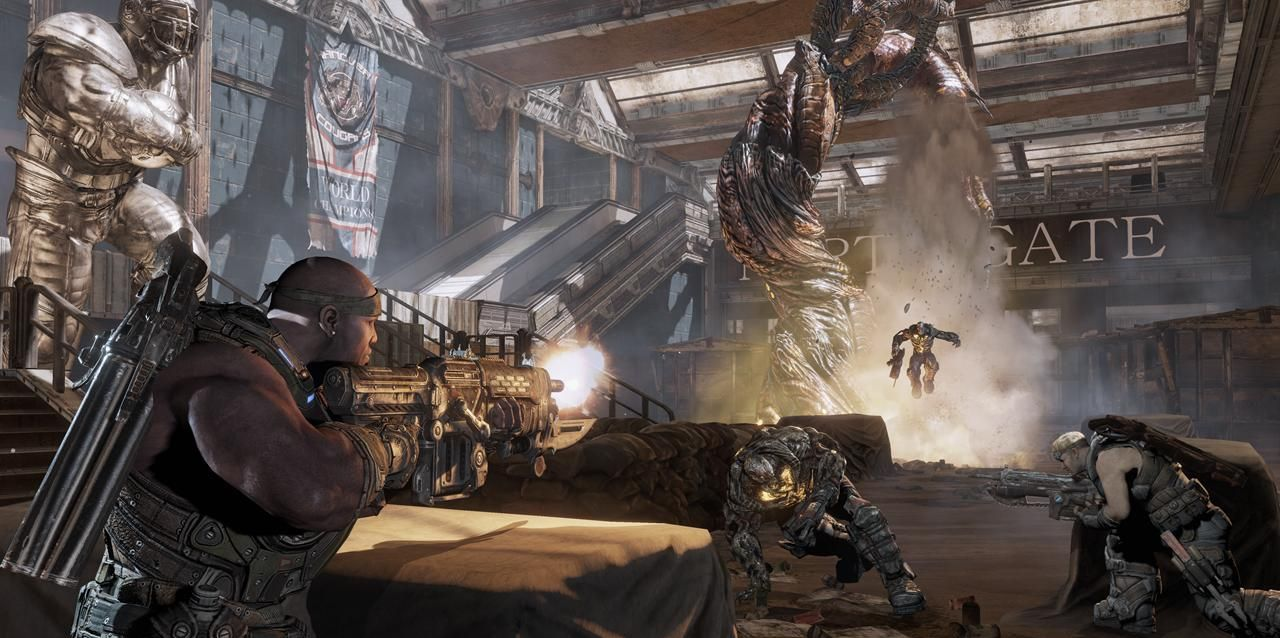
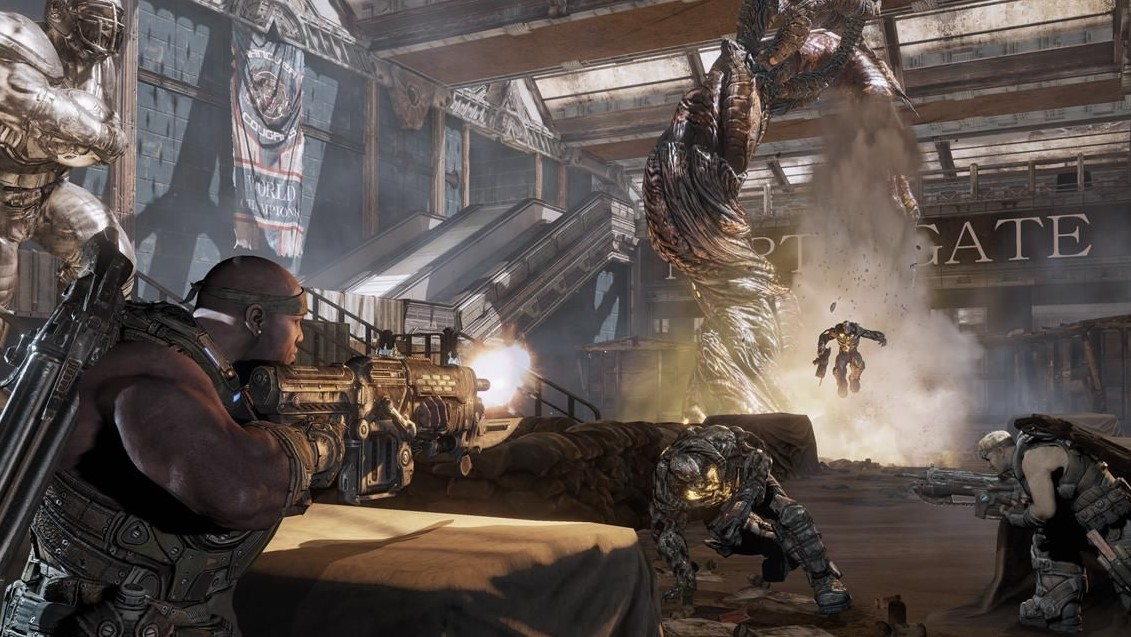
Edited img sizes

diff --git a/css/styles.css b/css/styles.css
@@ -32,6 +32,7 @@ text-align: center;
 align-items: flex-end;
 max-width: 1200px;
 flex: 1;
+flex-wrap: wrap;
 }
 
 .nav-list a {
@@ -156,6 +157,7 @@ img {
     gap: 10px;
     background-color: #2A323F; 
     margin-bottom: 100px;
+    flex-wrap: wrap;
 }
 
 .favourites {
@@ -237,7 +239,7 @@ a:active {
     display: grid;
     grid-template-columns: repeat(3, 1fr);
     width: 100%;
-    gap: 50px
+    gap: 50px;
 
 }
 
@@ -428,6 +430,12 @@ button {
 .checkout {
     display: grid;
     grid-template-columns: 1fr 1fr;
+}
+
+@media(max-width:740px){
+    .checkout {
+    grid-template-columns: 1fr;
+  }
 }
 
 .checkout-cta {
